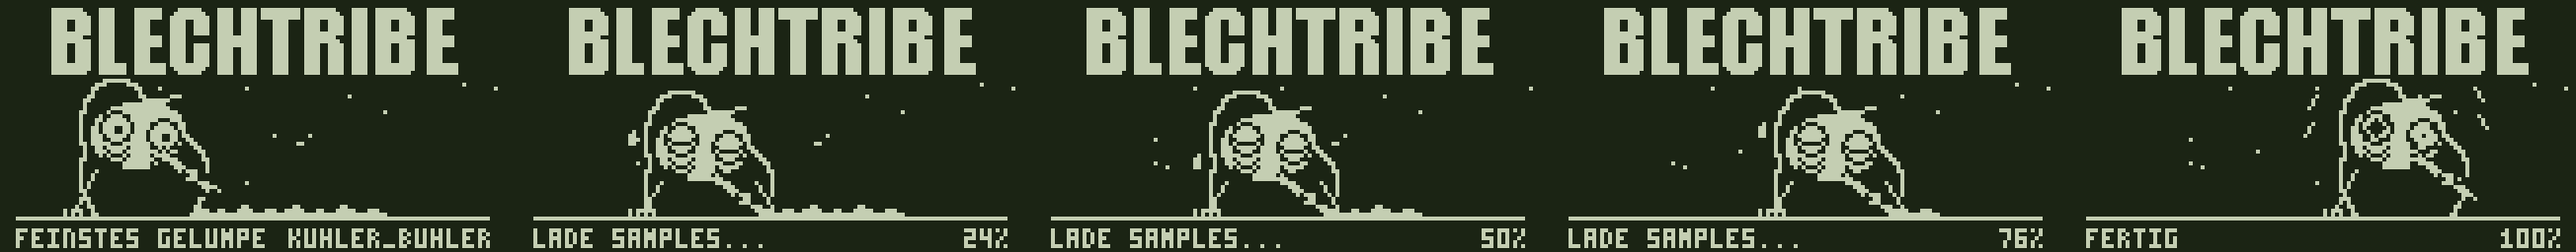
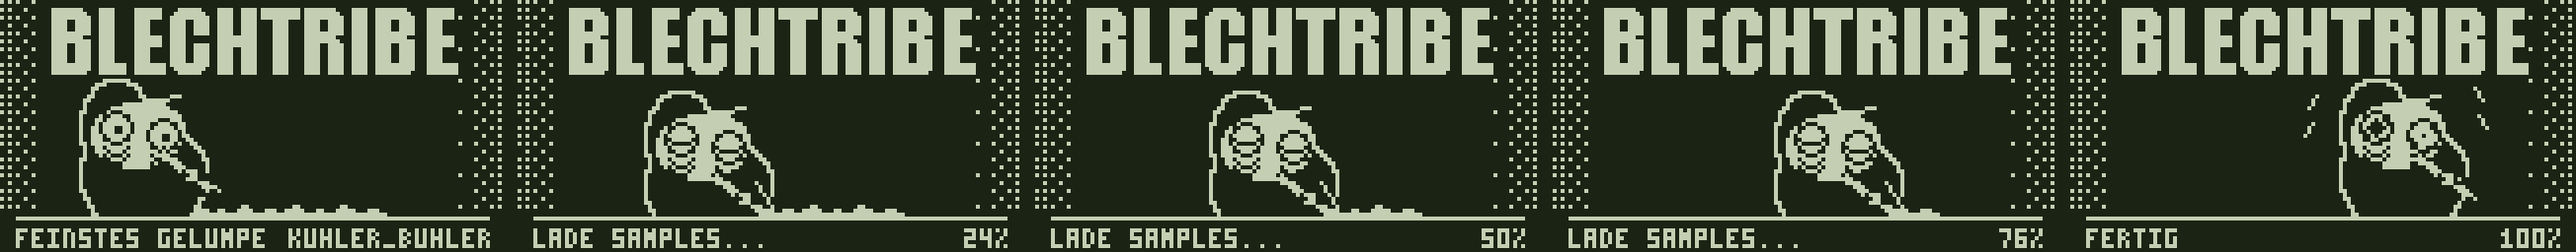
Blechy loading: static dither bands instead of stars, no sweat or brow twitch while drawing, no resting arm

diff --git a/entwuerfe/design-1.3/geraet/anim.py b/entwuerfe/design-1.3/geraet/anim.py
@@ -255,24 +255,15 @@ JITTER = ((0, 0), (1, 0), (0, 1), (-1, 0), (1, -1), (0, 0), (-1, 1), (0, -1))
 
 
 def unhinged_look(state, t_ms):
-    """Shut eyes with a twitching brow while drawing; at 100 one huge and one tiny
+    """Shut eyes while drawing; at 100 one huge and one tiny
     pupil that shake, the small eye bloodshot. Deterministic in t_ms."""
     if not state.started:
         return EYES_LOOK
     tick = t_ms // MIN_FRAME_MS
     if not state.done:
-        return (EYES_CLOSED, EYES_CLOSED, 0, 0, 1 if tick % 14 in (0, 1) else 0, False)
+        return EYES_CLOSED
     jx, jy = JITTER[tick % len(JITTER)]
     return (4, 0, jx, jy, 1 if tick % 6 < 3 else 0, True)
-
-
-def sweat(image, origin, t_ms):
-    """A drop runs down the left side of the head, a pixel per frame, then a new one."""
-    x, y = origin[0] + 9, origin[1] + 8 + (t_ms // MIN_FRAME_MS) % 14
-    px = image.load()
-    for dx, dy in ((0, 0), (0, 1), (-1, 1), (0, 2), (-1, 2), (0, 3), (-1, 3)):
-        if 0 <= y + dy < TABLE_Y:
-            px[x + dx, y + dy] = LIGHT
 
 
 def shake_lines(image, origin, t_ms):
@@ -393,42 +384,27 @@ def draw_dashes(image, state):
 # Height above the base row per column (from DASH_START): uneven lumps, a few two pixels high, no ruler.
 LUMPS = tuple(int(c) for c in "0111001100012210001110011221000110001221100011100")
 
-STAR_TOP, STAR_BOTTOM = 20, 52    # between the wordmark and the line
+BAYER4 = (0, 8, 2, 10, 12, 4, 14, 6, 3, 11, 1, 9, 15, 7, 13, 5)
+BAND_WIDTH, BAND_BOTTOM = 14, 53
 
 
-@lru_cache(maxsize=1)
-def stars():
-    """A dozen stars like the app background (site/design/bg.js): three depths, each blinks off now and then."""
-    seed = 23
-    out = []
-    for _ in range(14):
-        values = []
-        for _ in range(5):
-            seed = (seed * 1664525 + 1013904223) % 2**32
-            values.append(seed / 2**32)
-        z, x, y, period, phase = values
-        layer = 0 if z < 0.45 else 1 if z < 0.85 else 2
-        out.append((int(x * 124) + 2, y, layer, 4 + period * 6, phase))
-    return tuple(out)
-
-
-def draw_stars(image, t_ms):
-    """Background first: Blechy, the line and the text draw over it. t_ms 0 is the still splash."""
+def draw_bands(image):
+    """Static dither bands at both sides, as in the app background (bandDensity in site/design/bg.js):
+    dots on a 2 pixel pitch, denser towards the edge. Drawn first, everything else covers it."""
     px = image.load()
-    t = t_ms / 1000
-    span = STAR_BOTTOM - STAR_TOP
-    for x, y, layer, period, phase in stars():
-        if t and (t / period * 4 + phase) % 1 > 0.85:
-            continue
-        yy = STAR_TOP + int(y * span)       # stars stay put: falling ones read as snow
-        px[x, yy] = LIGHT
-        if layer == 2:
-            px[x + 1, yy] = LIGHT
+    for y in range(0, BAND_BOTTOM, 2):
+        for x in range(0, W, 2):
+            edge = min(x, W - 1 - x)
+            if edge >= BAND_WIDTH:
+                continue
+            density = (1 - edge / BAND_WIDTH) ** 1.4 * 0.9
+            if density > (BAYER4[((y >> 1) & 3) * 4 + ((x >> 1) & 3)] + 0.5) / 16:
+                px[x, y] = LIGHT
 
 
 def werkbank(state, t_ms=0):
     image = blank()
-    draw_stars(image, t_ms)
+    draw_bands(image)
     image.paste(LIGHT, (WORDMARK_SHIFT, 0), wordmark())
     d = ImageDraw.Draw(image)
     d.line((4, TABLE_Y, 123, TABLE_Y), fill=LIGHT)
@@ -441,15 +417,8 @@ def werkbank(state, t_ms=0):
     # layer, not just the body, so no pose can alter the edge or footer.
     gesture = blank()
     actor(gesture, origin, unhinged_look(state, t_ms), crop=TABLE_Y-origin[1])
-    if state.started and not state.done:
-        sweat(gesture, origin, t_ms)
     if state.done:
         shake_lines(gesture, origin, t_ms)
-    arm = ImageDraw.Draw(gesture)
-    hx = BODY_X + 8 + shift
-    for finger in (0, 2, 4):
-        arm.line((hx+finger, TABLE_Y-2, hx+finger, TABLE_Y-1), fill=LIGHT)
-    arm.line((origin[0]+16, origin[1]+25, hx+3, TABLE_Y-2), fill=LIGHT)
     draw_tube(gesture, werkbank_tube(pose, shift))
     # Opaque body coverage keeps the tray from showing through the dark body.
     coverage = blank()

diff --git a/entwuerfe/design-1.3/geraet/test_anim.py b/entwuerfe/design-1.3/geraet/test_anim.py
@@ -82,6 +82,7 @@ class FrameContractTests(unittest.TestCase):
 
     def test_the_figure_never_touches_the_wordmark(self):
         mark = anim.blank()
+        anim.draw_bands(mark)
         mark.paste(255, (anim.WORDMARK_SHIFT, 0), anim.wordmark())
         for cue in anim.demo_timeline():
             with self.subTest(pose=cue.state.pose, shift=cue.state.shift):
@@ -96,14 +97,14 @@ class FrameContractTests(unittest.TestCase):
                 if not cue.state.started:
                     self.assertEqual(look, anim.EYES_LOOK, "The still splash looks at you")
                 elif not cue.state.done:
-                    self.assertEqual(look[:2], (anim.EYES_CLOSED, anim.EYES_CLOSED), "Eyes shut while drawing")
+                    self.assertEqual(look, anim.EYES_CLOSED, "Eyes shut while drawing, no twitch")
                 else:
                     self.assertNotEqual(look[0], look[1], "Torn open with unequal pupils")
                     self.assertTrue(look[5], "The small eye is bloodshot")
             clock += cue.duration_ms
         for progress in (0.01, 0.37, 0.5, 0.88, 0.99):
-            self.assertEqual(anim.unhinged_look(anim.pass_state(progress), 1234)[:2],
-                             (anim.EYES_CLOSED, anim.EYES_CLOSED))
+            self.assertEqual(anim.unhinged_look(anim.pass_state(progress), 1234),
+                             anim.EYES_CLOSED)
 
     def test_footer_shows_the_status_text(self):
         still = anim.render_frame("werkbank", 0, pose="ready", started=False).crop((0, 56, 128, 64))

diff --git a/entwuerfe/design-1.3/geraet/README.md b/entwuerfe/design-1.3/geraet/README.md
@@ -4,14 +4,15 @@ Stand 19.10.2026. Die [Übergabe](uebergabe-2026-10-19.yaml) und die anschließe
 Die Gestaltung der Werkbank mit hellem Originalgesicht, festem BLECH und Fußzeile bleibt. Die Bewegung ist
 überarbeitet (Rückmeldung 19.10. abends): ein einziger Durchgang. Blechy setzt das Röhrchen an und zieht die Line von
 links nach rechts weg. Die Line ist der Balken: wo die Rohrspitze steht, steht der Ladestand. Im festen Startbild
-guckt er dich an. Beim Ziehen hat er die Augen zu, die Braue zuckt, Schweiß läuft ihm an der Seite runter. Bei 100 %
+guckt er dich an. Beim Ziehen hat er die Augen zu, sonst bewegt sich nur das Ziehen. Bei 100 %
 reißt er sie auf: ein Auge mit riesiger, eins mit winziger Pupille, beide zittern, das kleine ist blutunterlaufen,
-neben dem Kopf Zitterstriche wie bei den Terror-Sprites. Oben mittig
+die Braue zuckt, neben dem Kopf Zitterstriche wie bei den Terror-Sprites. Der Arm auf dem Tisch ist weg, nur die
+Hand mit dem Röhrchen bleibt. Oben mittig
 BLECHTRIBE als ein Wort (Impact 22, `blechtribe-titel.png`). Unten im Startbild "FEINSTES GELUMPE" und
 "KUHLER_BUHLER", beim Laden links der Status ("LADE SAMPLES...", "FERTIG") und rechts die Prozentzahl. Die Line liegt
-auf dem Tisch und hat Buckel (1 bis 2 Pixel). Dahinter ein paar Sterne wie im Hintergrund der App
-(`site/design/bg.js`). Sie fallen nicht (sah mit dem Hut nach Weihnachtsmann im Schnee aus), sie gehen nur ab und
-zu kurz aus; im festen Startbild stehen sie.
+auf dem Tisch und hat Buckel (1 bis 2 Pixel). Hintergrund: feste Dither-Bänder an beiden Rändern wie
+in der App (`bandDensity` in `site/design/bg.js`), Punkte im 2-Pixel-Raster, zum Rand hin dichter, 14 Pixel breit.
+Keine Sterne mehr (fallende sahen mit dem Hut nach Weihnachtsmann im Schnee aus).
 
 **Die Vorgabe lautet höchstens 20 Bilder pro Sekunde** (Rückmeldung 20.10.: ein Pixel braucht am Gerät grob
 50 ms, bis er weg ist). Jeder Bildzustand bleibt mindestens 50 ms sichtbar. Das gilt auch für kurze Zwischenbilder, Prozentänderungen und den letzten Zustand
@@ -153,10 +154,10 @@ umgestellt.
 
 | Folge | GIF-Bilder | Unterschiedliche Raster | Kürzeste Haltezeit | Bildwechsel höchstens |
 |---|---:|---:|---:|---:|
-| Werkbank, Ladedemo | 76 | 76 | 50 ms | 20 pro Sekunde |
+| Werkbank, Ladedemo | 76 | 68 | 50 ms | 20 pro Sekunde |
 | Ausschalten, ohne GIF-Wiederholungspause | 5 | 5 | 200 ms | 5 pro Sekunde |
 
-Ein Bildwechsel schaltet höchstens 560 Pixel auf höchstens sechs LCD-Seiten. Messen am Gerät steht aus.
+Ein Bildwechsel schaltet höchstens 544 Pixel auf höchstens sechs LCD-Seiten. Messen am Gerät steht aus.
 
 Die 19 gezielten Python-Prüfungen sichern unter anderem tatsächliche GIF-Haltezeiten, pixelgenaue Ausgabe in
 1×/4×, feste Bildbereiche, fehlenden Körperversatz durch Fortschritt, Rohr- und Griffgeometrie, beide Bitordnungen,

diff --git a/entwuerfe/design-1.3/README.md b/entwuerfe/design-1.3/README.md
@@ -106,7 +106,7 @@ zweiter Knopf, Code ansehen als Link.
 
 Ein Durchgang von 0 bis 100 %: Blechy zieht mit geschlossenen Augen die Line von links nach rechts weg und reißt
 bei 100 % die Augen auf. Oben mittig BLECHTRIBE, unten der Status ("LADE SAMPLES...") und die Prozentzahl,
-dahinter Sterne wie in der App. **Höchstens 20
+an den Rändern die Dither-Bänder aus der App. **Höchstens 20
 Bilder pro Sekunde**, jedes Bild mindestens 50 ms.
 
 ![Werkbank](geraet/vorschau/neu/werkbank.gif)
